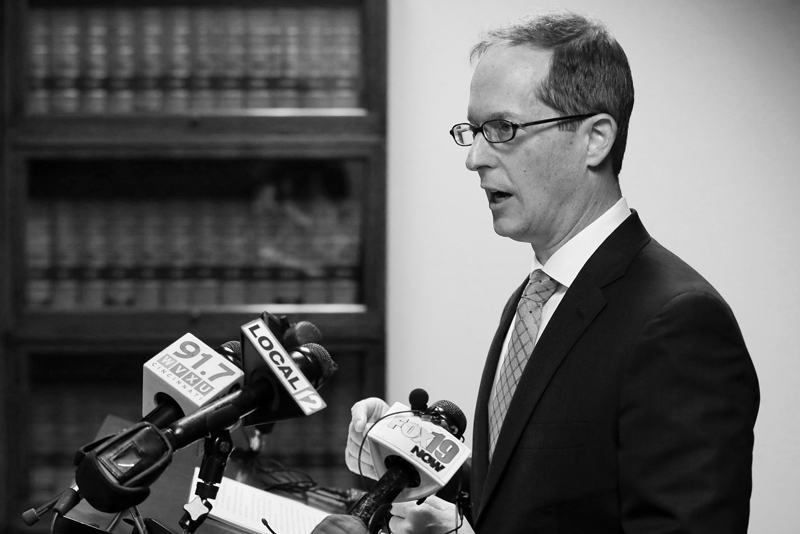
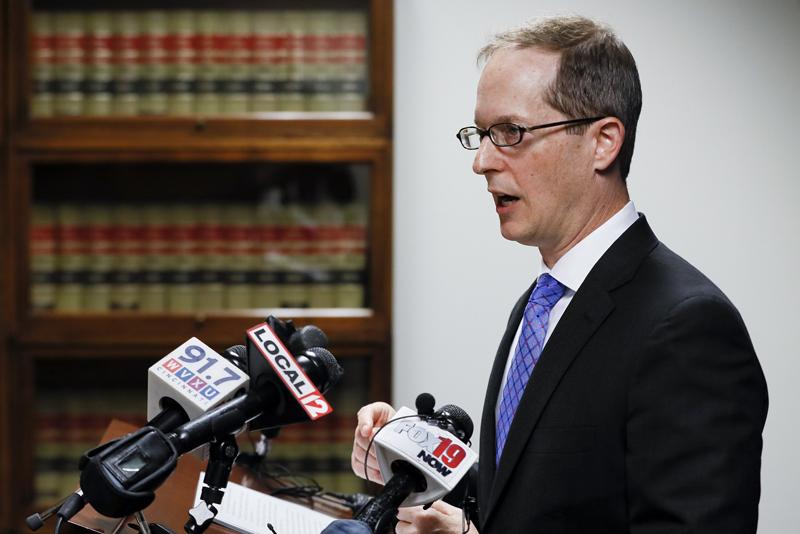
updates with colored thumbs

diff --git a/_posts/2017-10-20-gun-fistfight.md b/_posts/2017-10-20-gun-fistfight.md
@@ -1,6 +1,6 @@
 ---
 order: 7
-title: "'He brought a gun to a fistfight:' How a Brooklyn homicide tore apart families"
+title: "'He brought a gun to a fistfight': How a Brooklyn homicide tore apart families"
 authors:
     - Angie Wang
 categories:

diff --git a/_posts/2018-09-06-bank-shooting.md b/_posts/2018-09-06-bank-shooting.md
@@ -1,6 +1,6 @@
 ---
 order: 20
-title: "'A horrific situation:' 4 dead in Cincinnati bank shooting"
+title: "'A horrific situation': 4 dead in Cincinnati bank shooting"
 authors:
     - Angie Wang
     - Dan Sewell
